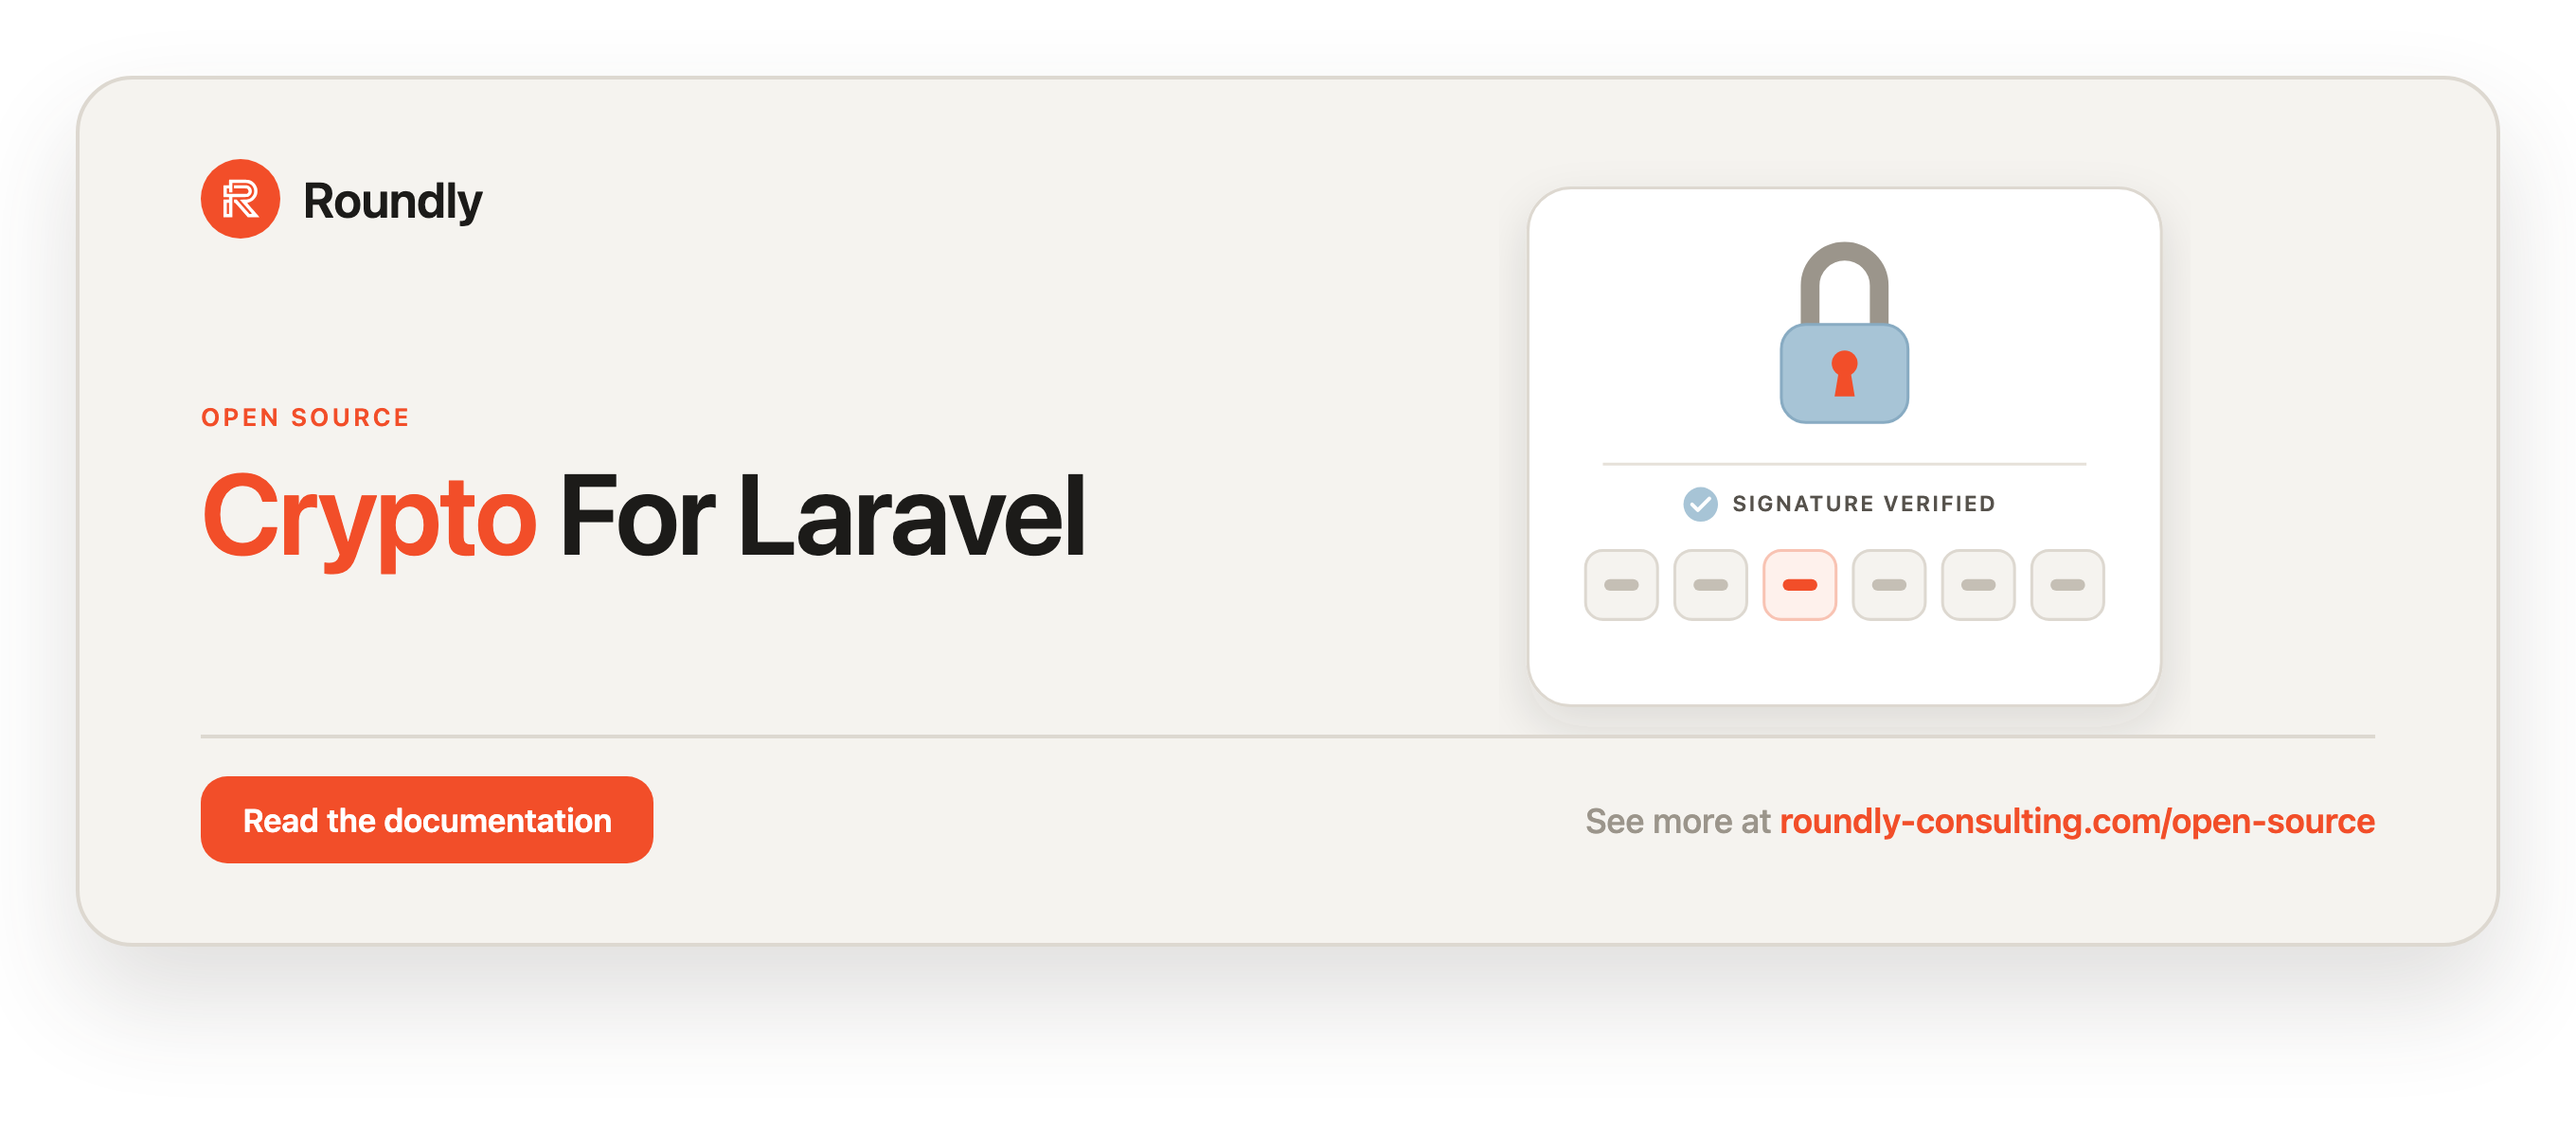
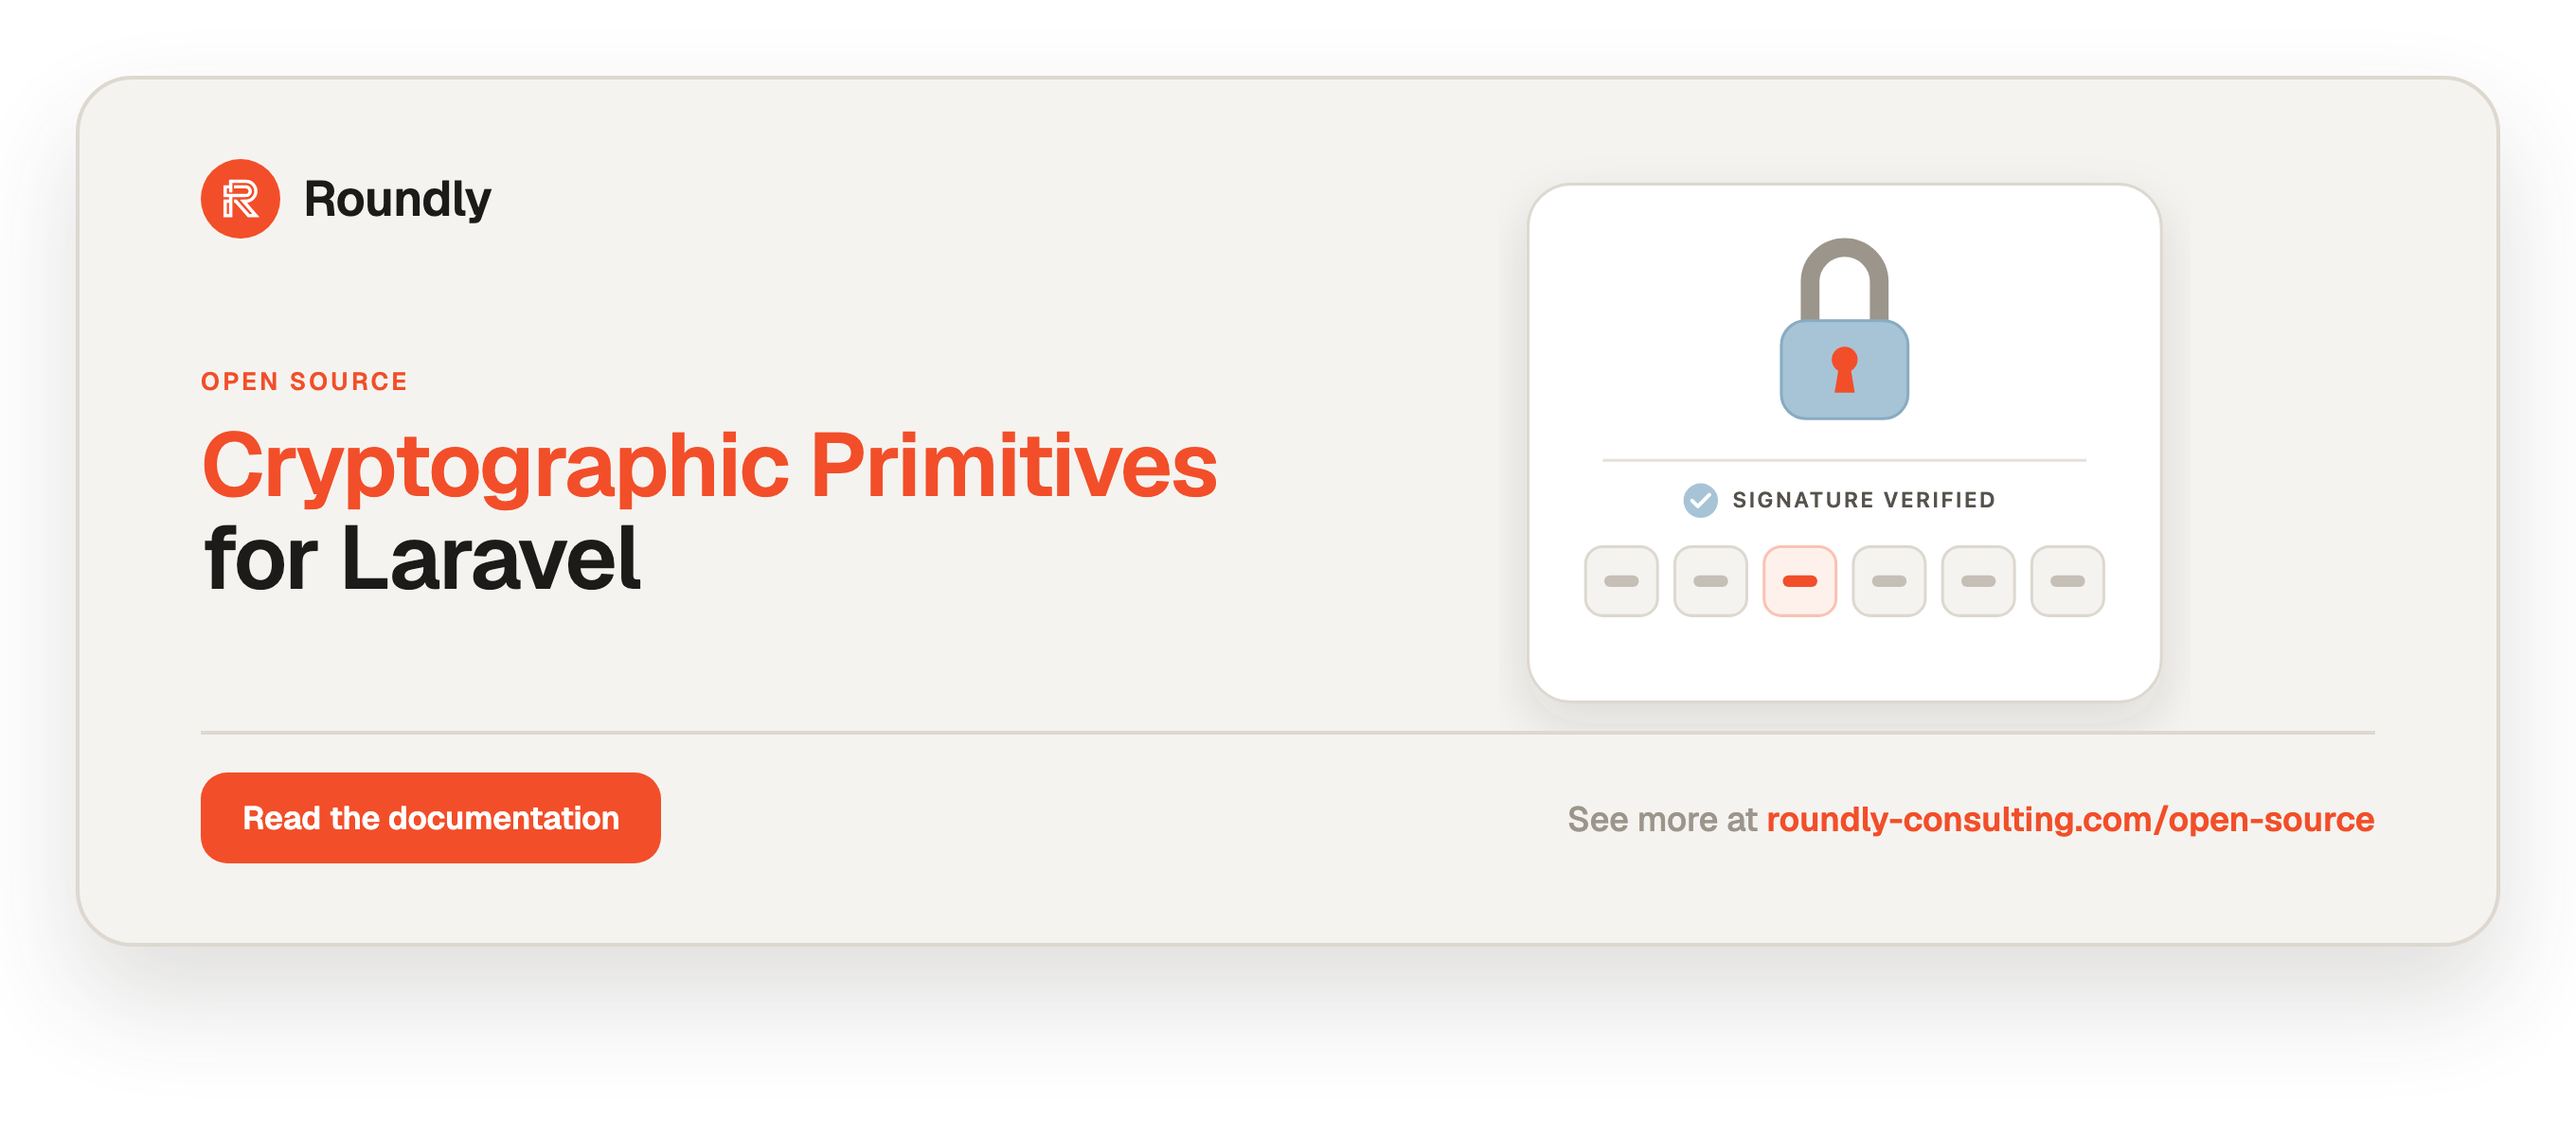
docs(art): put package name on one orange line

diff --git a/README.md b/README.md
@@ -1,8 +1,10 @@
+<!-- roundly-hero:start -->
 <p align="center">
-  <a href="https://roundly-consulting.com/open-source">
-    <img src="art/hero.png" alt="Crypto For Laravel — Roundly open source" width="100%">
+  <a href="https://roundly-consulting.com/open-source/docs/crypto-for-laravel?utm_source=github&utm_medium=readme&utm_campaign=open-source&utm_content=crypto-for-laravel">
+    <img src="art/hero.png" alt="Cryptographic Primitives for Laravel — Roundly open source" width="100%">
   </a>
 </p>
+<!-- roundly-hero:end -->
 
 # Cryptographic Primitives for Laravel
 
